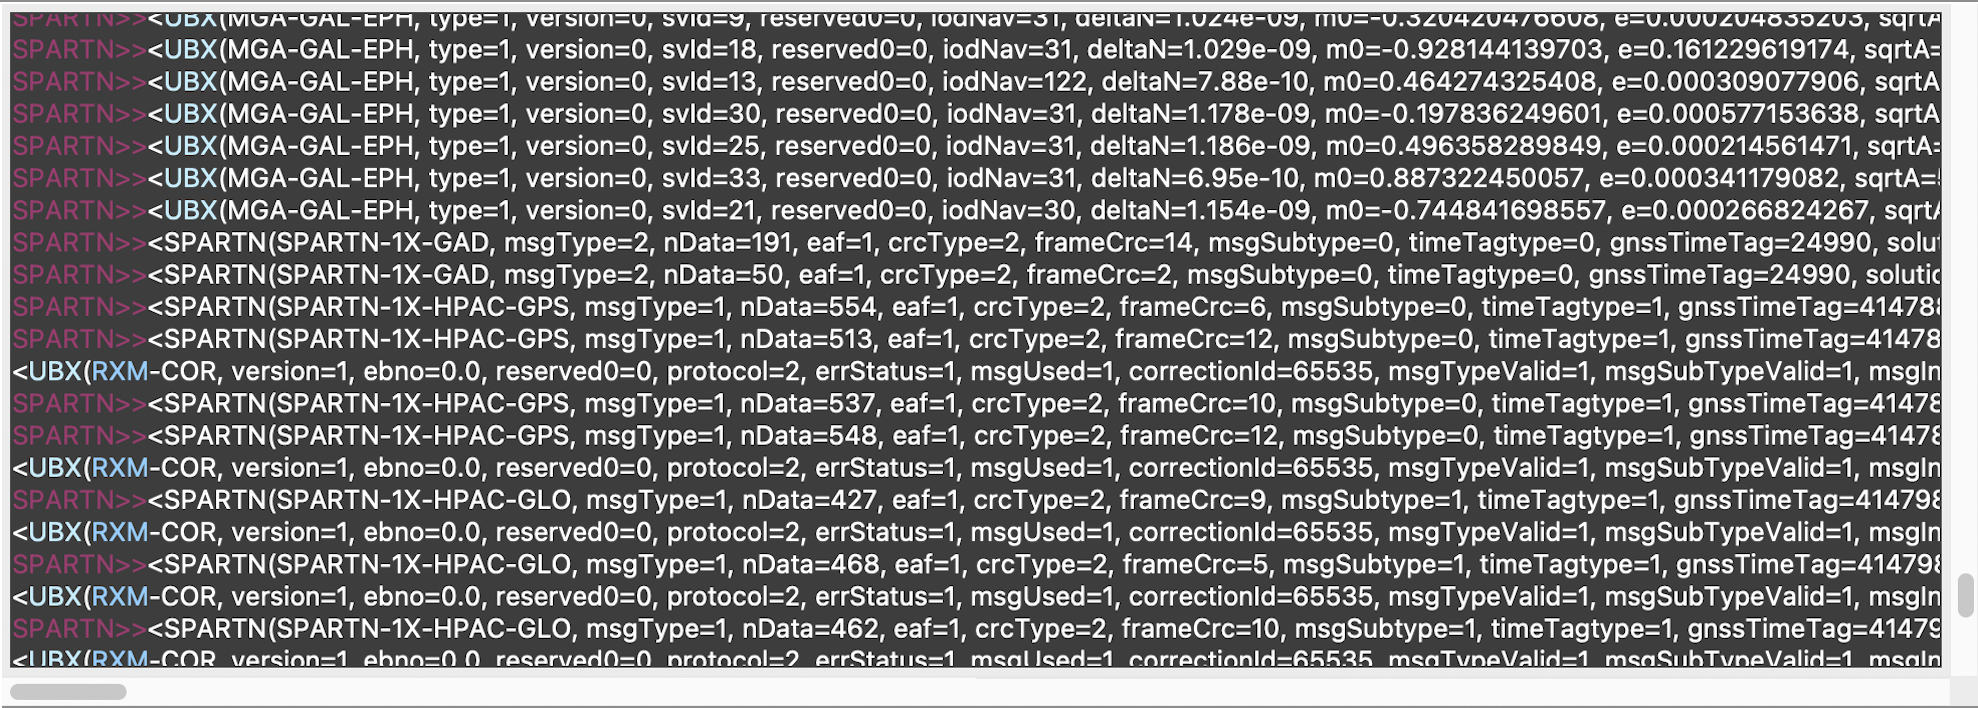
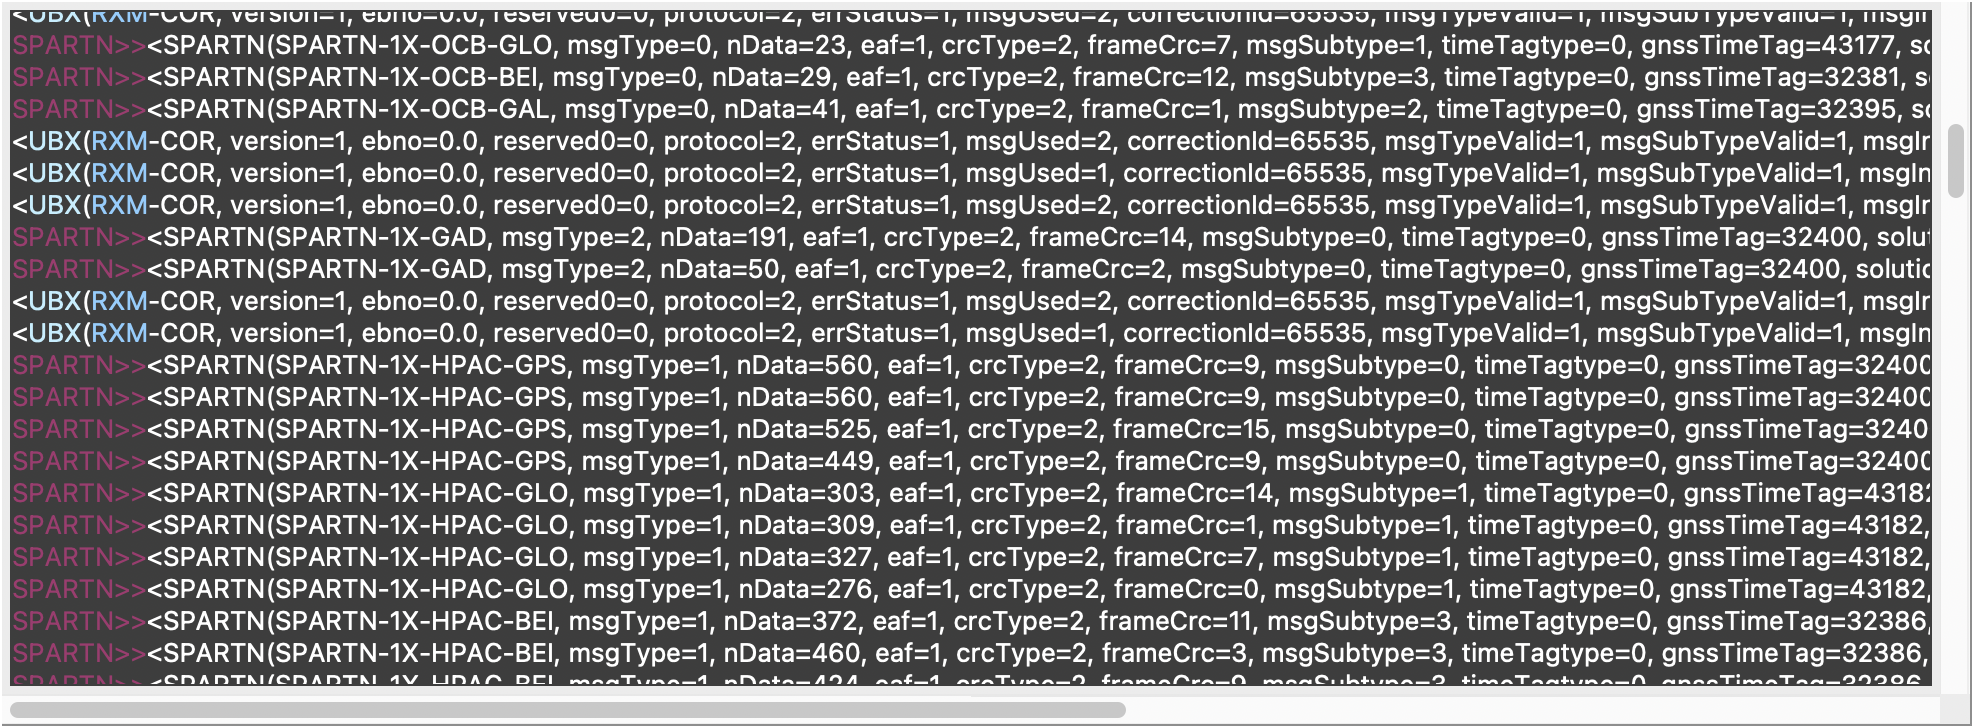
update readme

diff --git a/README.md b/README.md
@@ -177,23 +177,23 @@ The facility can be accessed by clicking ![SPARTN Client button](https://github.
 1. IP Correction (MQTT Client):
 
     - Internet access
-    - Subscription to relevant MQTT SPARTN location service e.g. u-blox / Thingstream PointPerfect IP or L-band, which should provide the following details:
-      - Server e.g. `pp.services.u-blox.com`
+    - Subscription to a suitable MQTT SPARTN location service e.g. u-blox / Thingstream PointPerfect IP or L-band, which should provide the following details:
+      - Server URL e.g. `pp.services.u-blox.com`
       - Client ID (which can be stored in the `"mqttclientid_s":` json configuration file setting or via environment variable `MQTTCLIENTID`)
       - Encryption certificate (`*.crt`) and key (`*.pem`) files. If these are placed in the user's HOME directory using the location service's standard naming convention, PyGPSClient will find them automatically.
-      - Region code e.g. `us`, `eu`, `jp`, `kr`, `au`
-	  - Source - select from either `IP` or `L-Band`
+      - Region code - select from `us`, `eu`, `jp`, `kr` or `au`.
+	  - Source - select from either `IP` or `L-Band` (*NB: the 'L-Band' MQTT mode provides decryption keys, Assist Now data and L-Band frequency information, but the correction data itself arrives via the L-Band receiver below*).
       - A list of published topics. These typically include:
-	  	- `/pp/ip/region` - binary SPARTN correction data for the selected region, for IP sources only.
+	  	- `/pp/ip/region` - binary SPARTN correction data (SPARTN-1X-HPAC* / OCB* / GAD*) for the selected region, for IP sources only.
 		- `/pp/ubx/mga` - UBX MGA AssistNow ephemera data for each constellation.
 		- `/pp/ubx/0236/ip` or `/pp/ubx/0236/Lb` - UBX RXM-SPARTNKEY messages containing the IP or L-band decryption keys to be uploaded to the GNSS receiver.
-		- `/pp/frequencies/Lb` - proprietary json message containing each region's L-band transmission frequency - currently `us` or `eu` (this is automatically enabled when `L-band` is selected).
+		- `/pp/frequencies/Lb` - json message containing each region's L-band transmission frequency - currently `us` or `eu` (this is automatically enabled when `L-Band` is selected).
       - Python version <= 3.11. The [`paho-mqtt-python`](https://github.com/eclipse/paho.mqtt.python) library on which this function depends is not currently fully compatible with Python 3.12.beta releases.
 
 2. L-BAND Correction (D9* Receiver):
 
-    - SPARTN L-Band correction receiver e.g. u-blox NEO-D9S
-    - Suitable Inmarsat L-band antenna and good satellite reception on regional frequency (NB: standard GNSS antenna may not be suitable) 
+    - SPARTN L-Band correction receiver e.g. u-blox NEO-D9S.
+    - [Suitable Inmarsat L-band antenna](https://www.amazon.com/RTL-SDR-Blog-1525-1637-Inmarsat-Iridium/dp/B07WGWZS1D) and good satellite reception on regional frequency (NB: standard GNSS antenna may not be suitable).
     - Subscription to L-Band location service e.g. u-blox / Thingstream PointPerfect, which should provide the following details:
       - L-Band frequency
 	  - Search window
@@ -209,23 +209,21 @@ The facility can be accessed by clicking ![SPARTN Client button](https://github.
 
     - SPARTN-compatible GNSS receiver e.g. u-blox ZED-F9P
     - Subscription to either IP and/or L-Band location service(s) e.g. e.g. u-blox / Thingstream PointPerfect, which should provide the following details:
-      - Current and Next IP or L-band decryption Keys in hexadecimal format
+      - Current and Next IP or L-band decryption Keys in hexadecimal format.
 	  - Valid From dates in YYYYMMDD format (keys normally valid for 4 week period).
 
 **Instructions:**
-
-The SPARTN client configuration can be loaded from a JSON file provided by the Location Service provider (e.g. u-blox / Thingstream) by clicking `Load Keys from JSON`. If the JSON file is valid, the Client ID, MQTT Server URL, Current and Next decryption keys and Valid from dates will be entered automatically.
 
 ### IP Correction Configuration (MQTT)
 
 1. Enter your MQTT Client ID (or set it up beforehand as *.json configuration setting `"mqttclientid_s":` or via environment variable `MQTTCLIENTID`).
 1. Select the path to the MQTT `*.crt` and `*.pem` files provided by the location service (PyGPSClient will use the user's HOME directory by default).
-1. Select the required region and subscription type (IP or L-band).
+1. Select the required region and subscription mode (`IP` or `L-Band`).
 1. Select the required topics:
-    - IP - this is the raw SPARTN correction data (required for IP; must be unchecked for L-band).
-    - Assist - this is Assist Now data as a UBX MGA message.
+    - IP - this is the raw SPARTN correction data as SPARTN-1X-HPAC* / OCB* / GAD* messages (required for IP; must be unchecked for L-band).
+    - Assist - this is Assist Now data as UBX MGA-* messages.
     - Key - this is the SPARTN IP or L-band decryption keys as a UBX RXM-SPARTNKEY message.
-1. To connect to the MQTT server, select the Server URL, Client ID, Region, Source and Topics and click ![connect icon](https://github.com/semuconsulting/PyGPSClient/blob/master/src/pygpsclient/resources/ethernet-1-24.png?raw=true). To disconnect, click ![disconnect icon](https://github.com/semuconsulting/PyGPSClient/blob/master/src/pygpsclient/resources/iconmonstr-media-control-50-24.png?raw=true).
+1. To connect to the MQTT server, click ![connect icon](https://github.com/semuconsulting/PyGPSClient/blob/master/src/pygpsclient/resources/ethernet-1-24.png?raw=true). To disconnect, click ![disconnect icon](https://github.com/semuconsulting/PyGPSClient/blob/master/src/pygpsclient/resources/iconmonstr-media-control-50-24.png?raw=true).
 
 ### L-Band Correction Configuration (D9*)
 
@@ -243,14 +241,13 @@ The SPARTN client configuration can be loaded from a JSON file provided by the L
 1. Enter the current and next decryption keys in hexadecimal format e.g. `0102030405060708090a0b0c0d0e0f10`. The keys are normally 16 bytes long, or 32 hexadecimal characters.
 1. Enter the supplied Valid From dates in `YYYYMMDD` format. **NB:** These are *Valid From* dates rather than *Expiry* dates. If the location service provides Expiry dates, subtract 4 weeks from these to get the Valid From dates.
 1. Select 'DGPS Timeout', 'Upload keys', 'Configure receiver' and 'Disable NMEA' options as required.
-1. Select the SPARTN correction source - either 'IP' or 'L-band'.
+1. Select the SPARTN correction source - either `IP` or `L-Band`.
 1. To reduce traffic volumes, you can choose to disable NMEA messages from the receiver. A minimal set of UBX NAV messages will be enabled in their place.
 1. Click ![send button](https://github.com/semuconsulting/PyGPSClient/blob/master/src/pygpsclient/resources/iconmonstr-arrow-12-24.png?raw=true) to upload the configuration. The utility will send the relevant configuration command(s) to the receiver and poll for an acknowledgement.
 
 
 Below is a illustrative SPARTN DGPS data log, showing:
-* Incoming UBX MGA (Assist-Now) messages; in this case, MGA-GAL-EPH (Assist-Now Galileo ephemera data).
-* Incoming SPARTN correction messages; in this case - SPARTN-1X-GAD (geographic area definition) and SPARTN-1X-HPAC (high-precision atmosphere correction). 
+* Incoming SPARTN correction messages (SPARTN-1X-HPAC* high-precision atmosphere corrections; SPARTN-OCB* orbit / clock / bias corrections; SPARTN-1X-GAD geographic area definitions). 
 * Outgoing UBX RXM-COR confirmation messages from receiver showing that the SPARTN data has been received and decrypted OK.
 
 ![spartn console screenshot](https://github.com/semuconsulting/PyGPSClient/blob/master/images/spartn_consolelog.png?raw=true)
